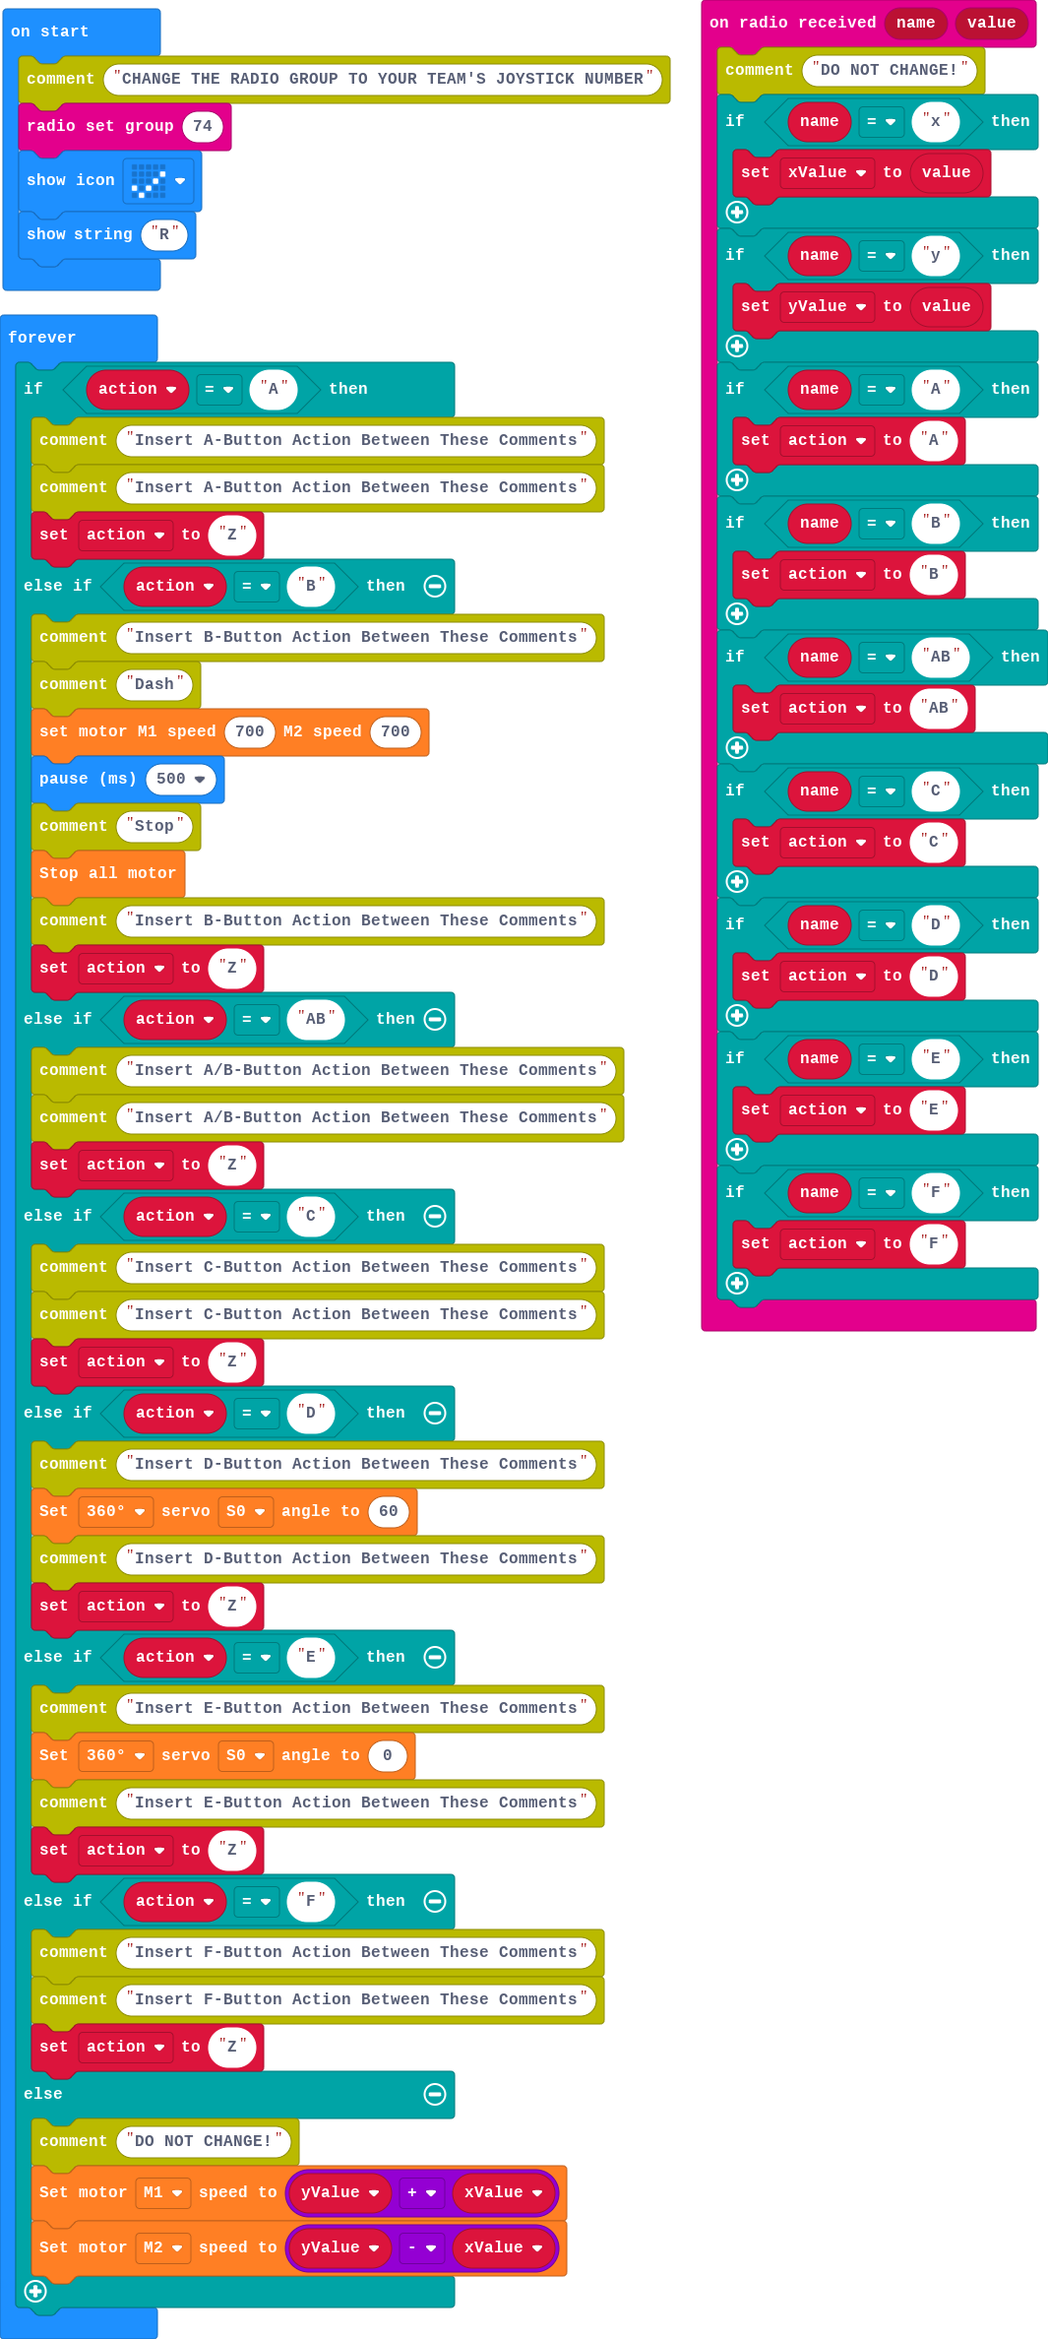
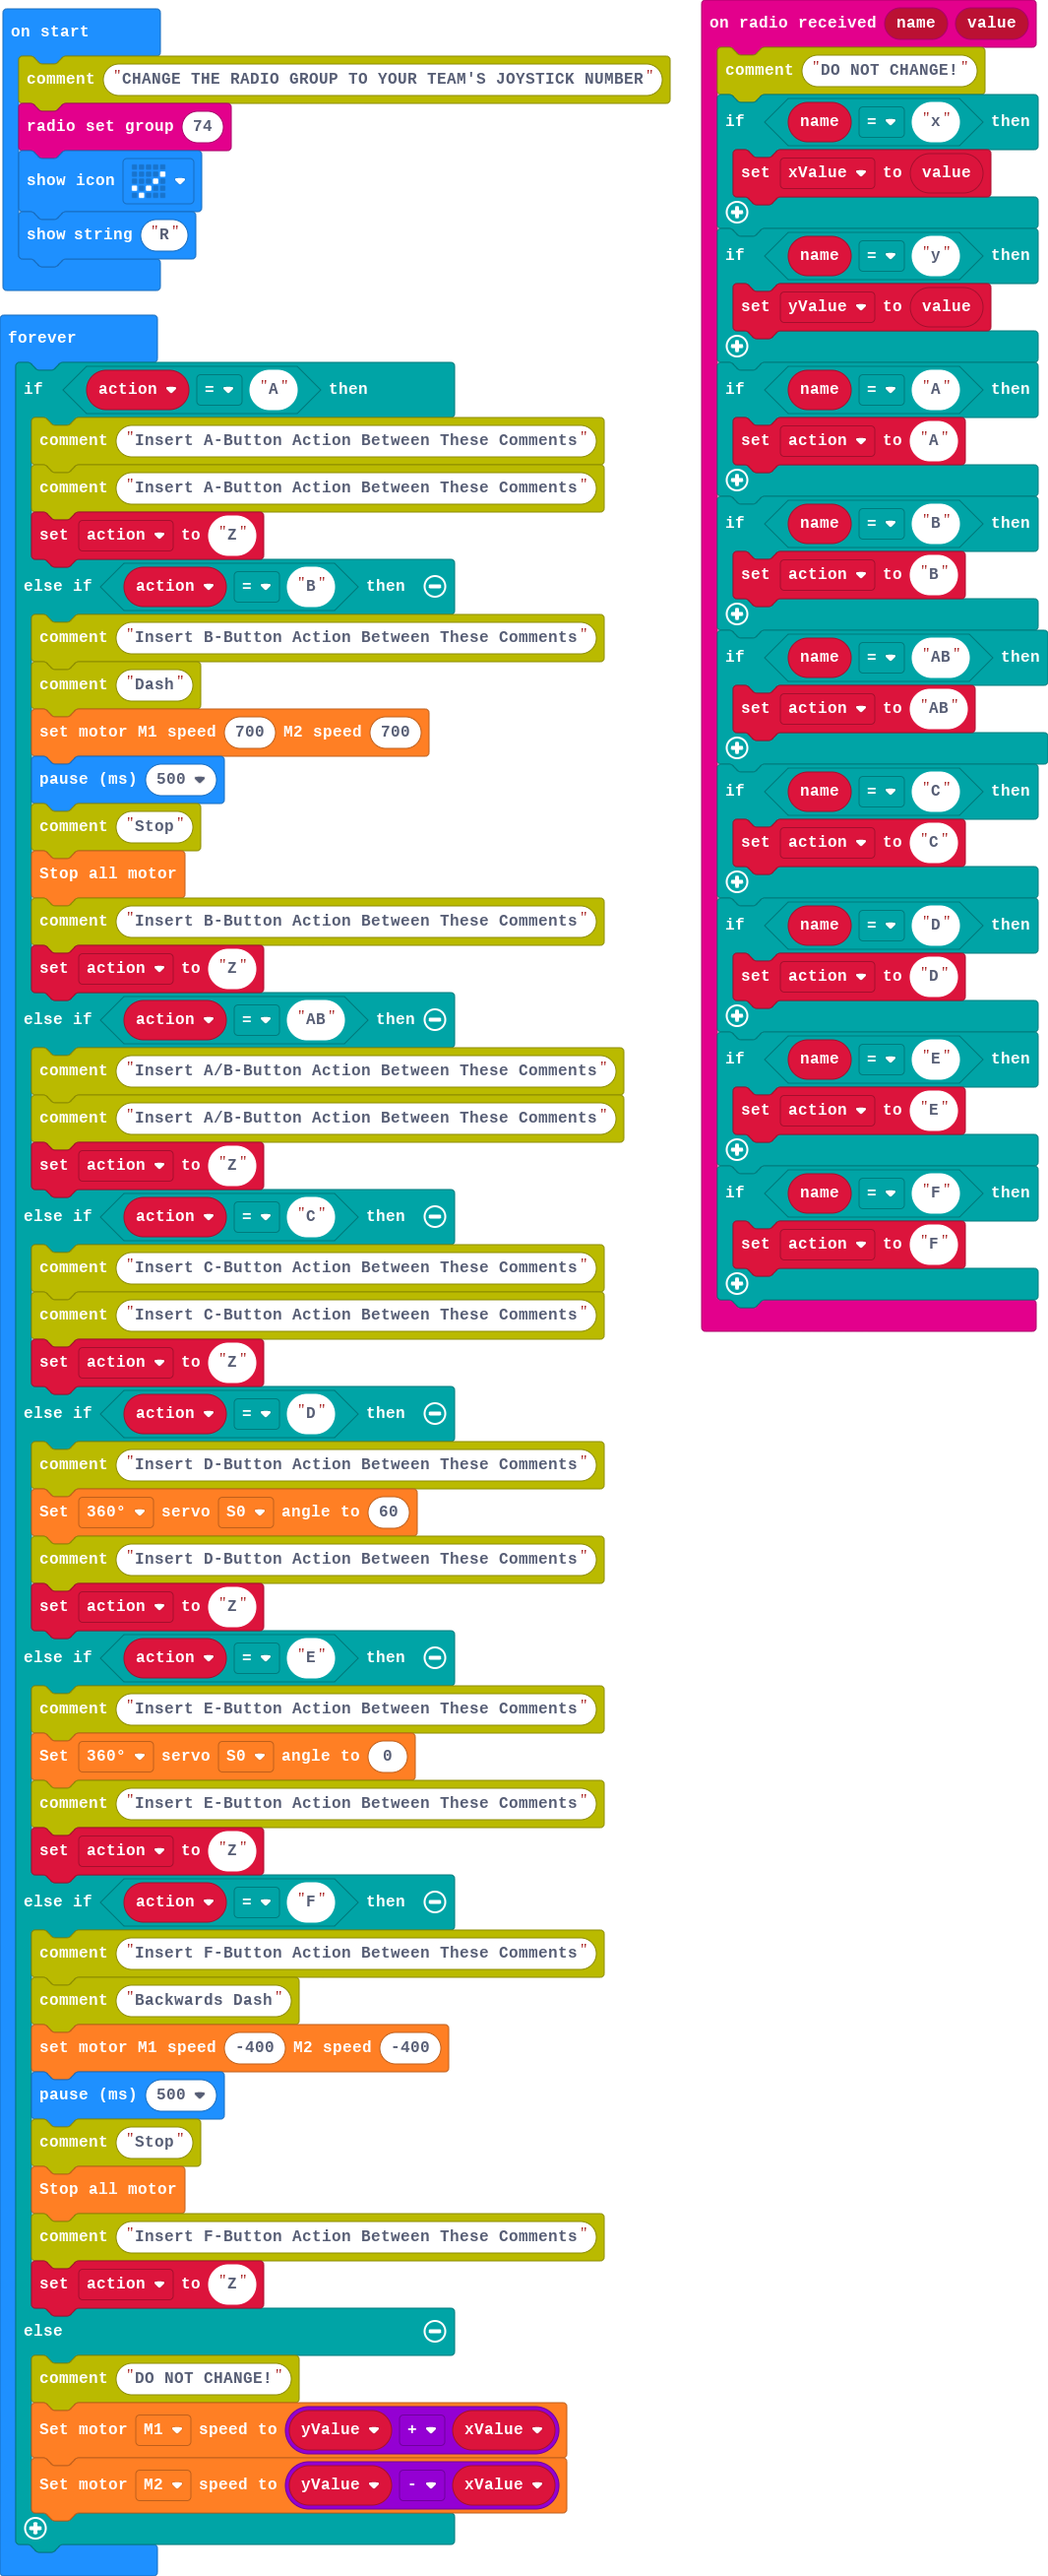
Update main.blocks, main.ts

diff --git a/main.ts b/main.ts
@@ -69,6 +69,11 @@ basic.forever(function () {
         action = "Z"
     } else if (action == "F") {
         comment.comment("Insert F-Button Action Between These Comments")
+        comment.comment("Backwards Dash")
+        wuKong.setAllMotor(-400, -400)
+        basic.pause(500)
+        comment.comment("Stop")
+        wuKong.stopAllMotor()
         comment.comment("Insert F-Button Action Between These Comments")
         action = "Z"
     } else {
